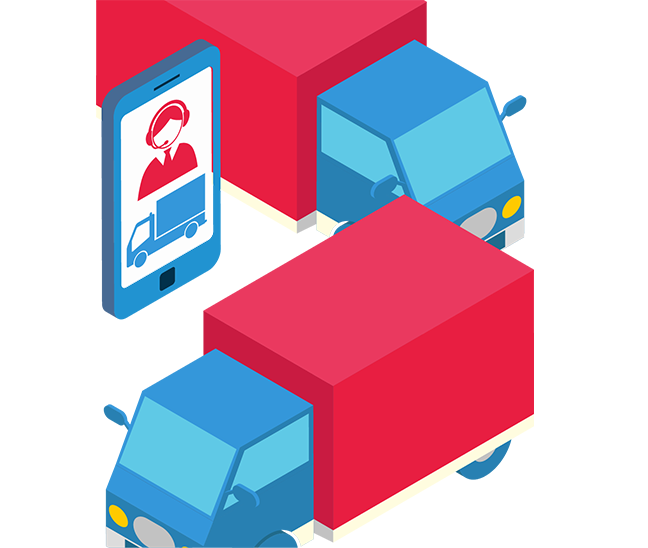
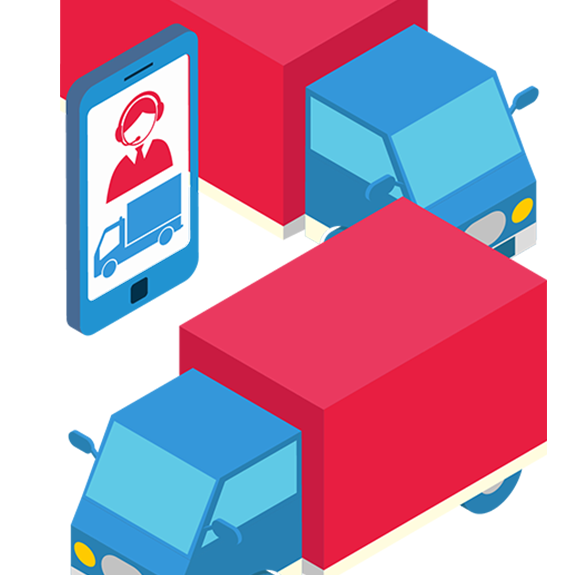
fc-45

diff --git a/services.html b/services.html
@@ -92,13 +92,15 @@
                     <h1 class="service-title">Services</h1>
                     <div class="service-item">
                         <div class="service-header yellow">Freight Forwarding</div>
-                        <div class="service-content">
 
+                        <div class="service-content">
                             <div class="row tex">
-                                <div class="col-4 service-image  ">
-                                    <img class="" src="sj_components/images/imgServ/Asset1-7@3x.png" alt="" srcset="">
+
+                                <div class="col-xl-4 col-lg-4 col-md-12 col-sm-12 service-image  ">
+                                    <img class="img-fluid" src="sj_components/images/imgServ/Asset1-7@3x.png ">
                                 </div>
-                                <div class="col-8 services-text-content ">
+
+                                <div class="col-xl-8 col-lg-8 col-md-12 col-sm-12 services-text-content ">
 
                                     <div class="mb-4 mt-5">
                                         <h2>Global Reach. Local Expertise. End-to-End Support.</h2>
@@ -125,18 +127,19 @@
                                 </div>
                             </div>
 
-
                         </div>
+
+
                     </div>
 
                     <div class="service-item">
                         <div class="service-header light">NVOCC</div>
                         <div class="service-content">
                             <div class="row tex">
-                                <div class="col-4 service-image">
-                                    <img src="sj_components/images/imgServ/Asset2-6@3x.png" alt="" srcset="">
+                                <div class="col-xl-4 col-lg-4 col-md-12 col-sm-12 service-image">
+                                    <img class="img-fluid" src="sj_components/images/imgServ/Asset2-6@3x.png" alt="" srcset="">
                                 </div>
-                                <div class="col-8 services-text-content ">
+                                <div class="col-xl-8 col-lg-8 col-md-12 col-sm-12 services-text-content ">
 
                                     <div class="mb-4 mt-5">
                                         <h2>Fast, Efficient and Strategically Routed Shipping</h2>
@@ -174,12 +177,11 @@
                         <div class="service-content">
 
                             <div class="row tex">
-                                <div class="col-4 service-image">
-                                    <img src="sj_components/images/imgServ/Asset3-5@3x.png" alt="" srcset=""
-                                        height="150">
+                                <div class="col-xl-4 col-lg-4 col-md-12 col-sm-12 service-image">
+                                    <img class="img-fluid" src="sj_components/images/imgServ/Asset3-5@3x.png" alt="" srcset=""
+                                        >
                                 </div>
-                                <div class="col-8 services-text-content ">
-
+                                <div class="col-xl-8 col-lg-8 col-md-12 col-sm-12 services-text-content ">
                                     <div class="mb-4 mt-5">
                                         <div class="mb-5">
 
@@ -214,12 +216,11 @@
                         <div class="service-content">
 
                             <div class="row tex">
-                                <div class="col-4 service-image">
-                                    <img src="sj_components/images/imgServ/Asset4-4@3x.png" alt="" srcset=""
+                                <div class="col-xl-4 col-lg-4 col-md-12 col-sm-12 service-image">
+                                    <img class="img-fluid" src="sj_components/images/imgServ/Asset4-4@3x.png" alt="" srcset=""
                                         height="150">
                                 </div>
-                                <div class="col-8 services-text-content ">
-
+                                <div class="col-xl-8 col-lg-8 col-md-12 col-sm-12 services-text-content ">
                                     <div class="mb-4 mt-5">
                                         <div class="mb-4">
 
@@ -253,12 +254,11 @@
                         <div class="service-header yellow">FCL/LCL Consolidation & Warehousing</div>
                         <div class="service-content">
                             <div class="row tex">
-                                <div class="col-4 service-image">
-                                    <img src="sj_components/images/imgServ/Asset5-3@3x.png" alt="" srcset=""
+                                <div class="col-xl-4 col-lg-4 col-md-12 col-sm-12 service-image">
+                                    <img class="img-fluid" src="sj_components/images/imgServ/Asset5-3@3x.png" alt="" srcset=""
                                         height="150">
                                 </div>
-                                <div class="col-8 services-text-content  ">
-
+                                <div class="col-xl-8 col-lg-8 col-md-12 col-sm-12 services-text-content  ">
                                     <div class="mb-4 mt-5">
                                         <div class="mb-4">
 

diff --git a/sj_components/style.css b/sj_components/style.css
@@ -978,7 +978,6 @@ li {
   color: #555;
   font-size: 24px;
   font-family: "MyFont1";
-  text-align: justify;
 }
 
 .services-text-content {
@@ -986,18 +985,6 @@ li {
   margin-bottom: 30px;
 }
 
-/* .service-image{
-  background-image: url("images/imgServ/Asset1-7@3x.png");
-  background-size:cover;
-  background-position:center;
-  min-height: auto;
-  overflow-x: hidden !important;
-  height: 1100px;
-} */
-
-.service-content img {
-  height: auto;
-}
 
 /* CONTACT US CSS */
 
@@ -1363,4 +1350,26 @@ li {
 }
 
 
+/* SERVICES */
+.service-title {
+  font-size: 55px !important;
+}
+
+.service-header {
+  font-size: 35px;
+}
+
+
+.services-text-content h2{
+  font-size: 30px !important;
+}
+
+
+.service-content {
+  padding: 0px 20px 0px 20px;
+}
+
+.service-content p, li {
+  text-align: left !important;
+}
 }
